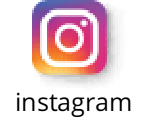
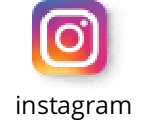
correção das imagens sociais 2

diff --git a/data/templates/template_farma.html b/data/templates/template_farma.html
@@ -226,13 +226,11 @@
                     <div class="redes_sociais">
                         <a href="https://www.facebook.com/BemolFarma">
                             <img src="https://github.com/matheushenrique-py/email_recomendacao/raw/master/data/imgs/face_2.png", class="logo_social">
-                            facebook
                         </a>
                     </div>
                     <div class="redes_sociais">
                         <a href="https://www.instagram.com/bemolfarma/">
                             <img src="https://github.com/matheushenrique-py/email_recomendacao/raw/master/data/imgs/insta_2.png", class="logo_social">
-                            instagram
                         </a>
                     </div>
                 </div>
